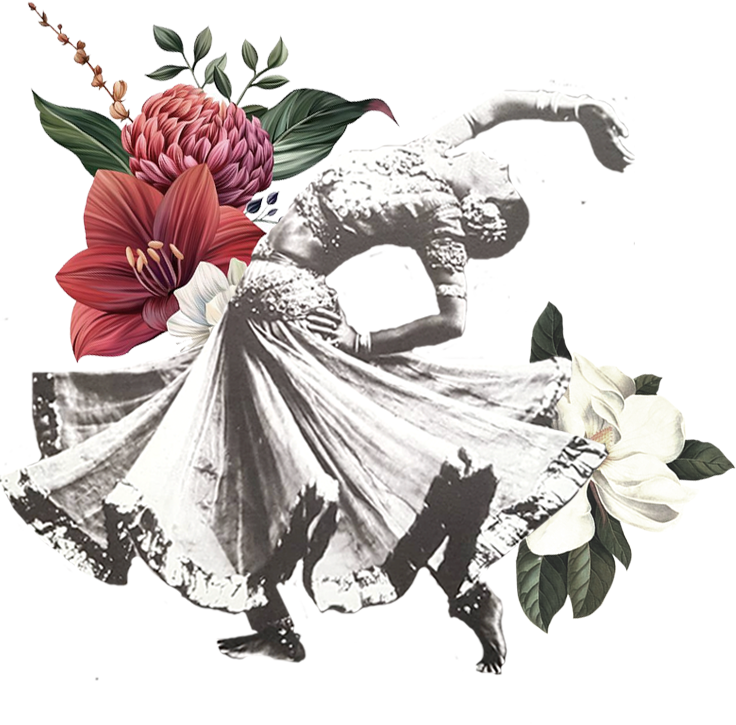
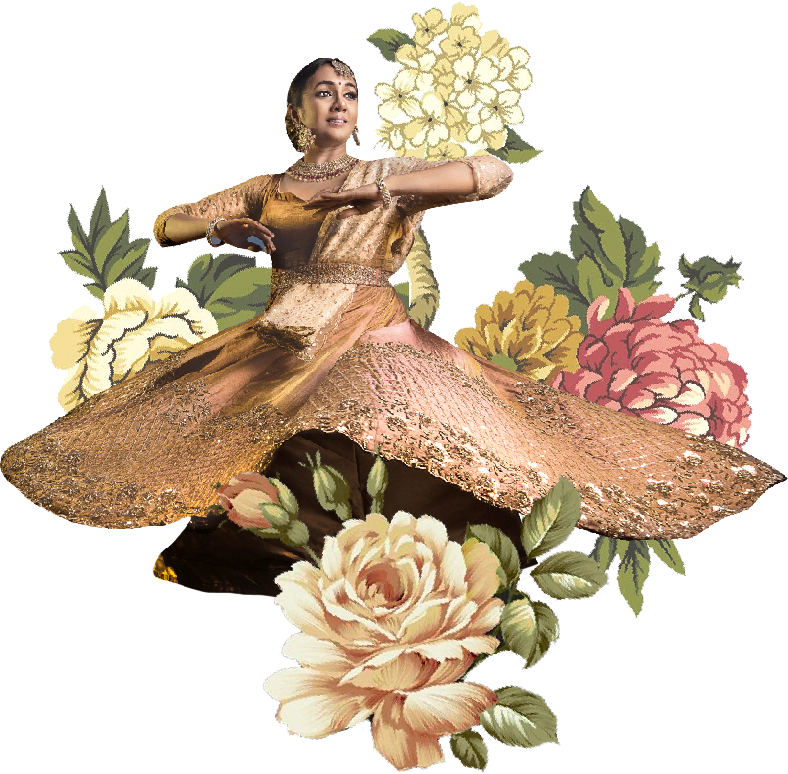
Badge design changes, images and alt text change

diff --git a/pages/index.js b/pages/index.js
@@ -24,15 +24,15 @@ export default function Index() {
                         </p>
                         <div className="animation-para taraana-home-cta d-flex flex-column flex-md-row pt-2"> <a href="#courses" className="taraana-btn mr-md-4 mb-3 mb-md-0">Courses</a> <a href="#contact" className="taraana-btn">Contact</a> </div>
                     </div>
-                    <div className="animation-image img-section text-center mt-lg-4"><img style={{maxWidth: '93%'}} src="./assets/images/hero1.png" alt="girl dancing image" className="img-fluid" /></div>
+                    <div className="animation-image img-section text-center mt-lg-4"><img style={{maxWidth: '85%'}} src="./assets/images/hero1.png" alt="Kathak classes in chennai" className="img-fluid" /></div>
                 </div>
                 <div id="about" className="nav-scroller"></div>
                 </section>
                 <section className="taraana-history animate-slide bg-fill-2">
                 <div className=" d-flex flex-column-reverse flex-lg-row container">
-                    <div className="img-section text-center"><img src="./assets/images/hero3.png" alt="girl dancing image" className="img-fluid leader-img" /></div>
+                    <div className="img-section text-center"><img src="./assets/images/hero2.png" alt="Taraana Academy of Kathak" className="img-fluid leader-img" /></div>
                     <div className="text-section">
-                        <div className="about-badge-cont sp-margin-left"><span className="about-badge">About Taraana Academy</span></div>
+                        <div className="about-badge-cont sp-margin-left">About Taraana Academy</div>
                         <h2 className="t-h2 sp-margin-left">At Taraana, we strongly believe that a strong dancer is created in the <span className="head-highlight">studio</span>  and a star performer is born <span className="head-highlight">onstage</span>.</h2>
                         <p>Taraana was founded in 2015 by Kathak danseuse – Shritha Baskar , along with her mother– Vasantha Baskar. A joint vision – Taraana Academy – was born out of a Skype conversation with the rest of the family.</p>
                         <p>Taraana has evolved into a premier Kathak Academy catering to over students of differing backgrounds ages ranging from 6 to 60.</p>
@@ -44,14 +44,14 @@ export default function Index() {
                 <section className="taraana-shritha-bio bg-fill-1">
                 <div className="d-flex flex-column flex-lg-row container">
                     <div className="text-section">
-                        <div className="about-badge-cont"><span className="about-badge">About the Founder</span></div>
+                        <div className="about-badge-cont">About the Founder</div>
                         <h2 className="t-h2 sp-margin-right">Shritha currently trains under the guidance of <span className="head-highlight">Guru Smt. Nayantara Parpia</span> (disciple of Smt. Yogini Gandhi and Pt. Birju Maharaj).</h2>
                         <p>Shritha Baskar is a Kathak danseuse born and brought up in Dubai. She began training at the age of five under Guru Smt. Ketaki Hazra, a disciple of Smt. Bela Arnab. Being trained in the Jaipur and Lucknow Gharana of Kathak, Shritha earned herself a Senior Diploma in Kathak Dance from the Surabharati Sangeet Parishad, Kolkata, at the age of seventeen.</p>
                         <p>She has several performances to her credit, including regular recitals for the Diplomatic Corps, the Indian Embassy of various countries and the Festival of India around regions of the Arabian Gulf.</p>
                         <p>Shritha simultaneously took pleasure in teaching Kathak and semi classical dance to the students of the ‘Dubai Centre for Special Needs’ and ‘Special Needs Families’. Her work with the differently-abled has gained her many more accolades in the United Arab Emirates.</p>
                         <p>Moving to Chennai in 2011 only made it more opportune for Shritha to regularly attend workshops conducted by Pandit Birju Maharaj and Vidushi Saswati Sen and many other senior dancers. Adept in both Nrtta and Abhinaya, Shritha’s performances have been well lauded.</p>
                     </div>
-                    <div className="img-section text-center"><img src="./assets/images/hero2.png" alt="expressive girl image" className="img-fluid leader-img" /></div>
+                    <div className="img-section text-center"><img src="./assets/images/hero3.png" alt="Founder - Taraana Academy" className="img-fluid leader-img" /></div>
                 </div>
                 <div id="courses" className="nav-scroller"></div>
                 </section>

diff --git a/comps/courses.js b/comps/courses.js
@@ -10,10 +10,10 @@ export default function Courses() {
                         <h3>Kathak:</h3>
                         <ul className="course-points-list">
                             <li>
-                                Group classes for all levels and age groups
+                                Group classes for <b>all levels and age groups</b>
                             </li>
                             <li>
-                                Personalized one-on-one sessions
+                                Personalized <b>one-on-one sessions</b>
                             </li>
                         </ul>
                     </div>
@@ -25,10 +25,10 @@ export default function Courses() {
                         <h4 className="head-highlight">Hindustani Vocal:</h4>
                         <ul className="course-points-list">
                             <li>
-                                Group classes for all levels and age groups
+                                Group classes for <b>all levels and age groups</b>
                             </li>
                             <li>
-                            Personalized one-on-one sessions
+                            Personalized <b>one-on-one sessions</b>
                             </li>
                         </ul>
                         <h4 className="head-highlight">Tabla/Sitar Classes:</h4>
@@ -37,18 +37,11 @@ export default function Courses() {
                         </p>
                     </div>
                 </li>
-                {/* <li className="taraana-courses-ul-item d-flex flex-column flex-lg-row align-items-lg-center">
-                    <div className="img-section mr-lg-5"><img src="./assets/icons/spotlogo/3.png" alt="course-image" className="img-fluid" /></div>
-                    <div className="desc-section">
-                        <h3>Tabla/Sitar:</h3>
-                        <p>Taraana Academy believes in wholistic learning. We not only regularly conduct workshops on Hindustani instruments but we also offer one on one classes for Tabla and Sitar based on request.</p>
-                    </div>
-                </li> */}
                 <li className="taraana-courses-ul-item d-flex flex-column flex-lg-row align-items-lg-center">
                     <div className="img-section mr-lg-5"><img src="./assets/icons/spotlogo/4.png" alt="course-image" className="img-fluid" /></div>
                     <div className="desc-section">
                         <h3>Yoga:</h3>
-                        <p className="mb-0">Yoga for dance specifically is an integral part of our regular classes. In addition, we have yoga courses for those who may be interested in it.</p>
+                        <p className="mb-0">Yoga for dance specifically is an integral part of our regular classes. In addition, we have yoga courses for those who may be interested.</p>
                     </div>
                 </li>
             </ul>

diff --git a/comps/events/allEvents.js b/comps/events/allEvents.js
@@ -1,3 +1,4 @@
+import { Divider } from 'antd';
 import React from 'react';
 import Moment from 'react-moment';
 
@@ -8,9 +9,10 @@ export default function AllEvents({ events }) {
     let pastEvents = events.filter(event => event.eventDate.seconds * 1000 < new Date().getTime())
                         .sort((a,b) => b.eventDate - a.eventDate);
     let bgColor = 0;
-    let upcomingEventsComp = upcomingEvents.length > 0 ? ( upcomingEvents.map(event => {
+    let upcomingEventsComp = upcomingEvents.length > 0 ? ( upcomingEvents.map((event, index) => {
         bgColor++;
         let eventContainerCss = `circle-text mx-lg-auto event-bg-fill-${(bgColor % 3) + 1}`;
+        let eventDetailsCss = (upcomingEvents.length === index + 1) ? `col-12 col-md-10` : `col-12 col-md-10 event-bottom-border`;
         let date = new Date(event.eventDate ? event.eventDate.seconds * 1000 : event.fromDate.seconds * 1000);
         let eventYear = date.getFullYear();
         let currentYear= new Date().getFullYear(); 
@@ -29,7 +31,7 @@ export default function AllEvents({ events }) {
                     </span>
                 </p>
                 </div>
-                <div className="col-12 col-md-10 event-bottom-border">
+                <div className={eventDetailsCss}>
                     <h3>{event.name}</h3>
                     <div style={{marginBottom: '0.5rem'}}>
                         <span style={{fontFamily: 'Made-Dillan', fontSize: '20px'}}>Venue: </span>
@@ -79,14 +81,13 @@ export default function AllEvents({ events }) {
     
     return (
         <div>
-            {(upcomingEventsComp) ? ( <div className="about-badge-cont" style={{margin: '40px 0px'}}>
-                <span className="about-badge">Upcoming Events</span>
-            </div>
+            {(upcomingEventsComp) ? ( 
+                <Divider className="allEvents-section-header" orientation="left">Upcoming events</Divider>
             ) : null }
             {upcomingEventsComp}
-            <div className="about-badge-cont" style={{margin: '40px 0px'}}>
-                <span className="about-badge">Past Events</span>
-            </div>
+            {(pastEventsComp) ? ( 
+                <Divider className="allEvents-section-header" orientation="left">Past events</Divider>
+            ) : null }
             {pastEventsComp}
         </div>
     )

diff --git a/style.css b/style.css
@@ -291,16 +291,11 @@ section .img-section {
   width: 50%;
 }
 .about-badge-cont {
-  margin-bottom: 35px;
-}
-.about-badge {
-  padding: 15px 20px;
-  background-color: #6d5778;
-  color: var(--white);
-  border-radius: 25px;
-  font-family: "Merriweather";
-  font-weight: 600;
-  font-size: 16px;
+  margin-bottom: 25px;
+  font-family: "Made-Dillan";
+  font-size: 24px;
+  color: #6d5778;
+  border-bottom: 1px solid;
 }
 @media (max-width: 991px) {
   main {
@@ -315,6 +310,9 @@ section .img-section {
   }
   .sp-margin-right {
     margin-right: unset;
+  }
+  .animation-image {
+    margin-bottom: 2rem;
   }
 }
 /*section styles end here*/
@@ -499,8 +497,9 @@ section .img-section {
   font: 18px/18px Made-Dillan;
 }
 .taraana-all-events .circle-text {
-  width: 90px;
-  height: 90px;
+  width: 100px;
+  height: 100px;
+  font: 20px/22px Made-Dillan;
 }
 .event-bottom-border {
   border-bottom: 1px solid var(--seperator);
@@ -512,6 +511,16 @@ section .img-section {
   display: flex;
   justify-content: right;
   margin: 0 -15px 0 0;
+}
+.allEvents-section-header {
+  font-size: 16px !important;
+  color: rgb(109 87 120) !important;
+  border-top-color: rgb(109 87 120) !important;
+  font-family: "Merriweather";
+  font-weight: 600 !important;
+}
+.ant-divider-horizontal.ant-divider-with-text {
+  margin: 28px 0 !important;
 }
 
 .taraana-getin-touch .contact-input,
@@ -773,6 +782,15 @@ section .img-section {
   -moz-transform: translate(0px, 0px);
   -o-transform: translate(0px, 0px);
   -ms-transform: translate(0px, 0px);
+}
+
+@media (max-width: 991px) {
+  .ver_mas {
+    display: none;
+  }
+  .container_foto:hover article {
+    transform: none;
+  }
 }
 
 /* Card album with cover css ends */

diff --git a/comps/faculty.js b/comps/faculty.js
@@ -24,7 +24,7 @@ export default function Faculty() {
                 <li className="taraana-faculty-ul-item d-flex flex-column flex-lg-row align-items-lg-center">
                     <div className="faculty-dp faculty-kriteka mr-lg-5"></div>
                     <div className="desc-section">
-                        <h3>Kriteka</h3>
+                        <h3>Kriteka M. Iyer</h3>
                         <p className="mb-0">A disciple of Shri Waseem Ahmed Khan and Padmavibhushan Vidushi Dr Girija Devi ji, Kriteka Iyer has been learning since the age of 6. A Senior research scholar at ITC Sangeet Research Academy for 7 years, Kriteka is now a regular performer and a teacher of Hindustani Vocals.</p>
                     </div>
                 </li>

diff --git a/comps/purpose.js b/comps/purpose.js
@@ -3,7 +3,7 @@ import React from 'react';
 export default function Purpose() {
   return (
     <div className="row flex-column-reverse flex-lg-row">
-        <div className="col-12 col-lg-6  text-center"><img src="./assets/images/hero4.png" alt="tabla image" className="img-fluid leader-img" /></div>
+        <div className="col-12 col-lg-6  text-center"><img src="./assets/images/hero4.png" alt="Dance, Yoga, and Music" className="img-fluid leader-img" /></div>
         <div className="col-12 col-lg-6">
             <ul className="course-points-list" style={{listStyle: 'circle'}}>
                 <li>Improve body language</li>

diff --git a/comps/events/upcomingEvents.js b/comps/events/upcomingEvents.js
@@ -67,7 +67,7 @@ export default function Events() {
                         <Link href="/events"><a className="taraana-btn">View all events</a></Link>
                     </div>
                 </div>
-                <div className="col-12 col-lg-5"><img src="./assets/images/hero5.png" alt="dancing girl image" className="img-fluid leader-img" /></div>
+                <div className="col-12 col-lg-5"><img src="./assets/images/hero5.png" alt="Events - Taraana Academy of Kathak" className="img-fluid leader-img" /></div>
             </div>
         </>
     )
